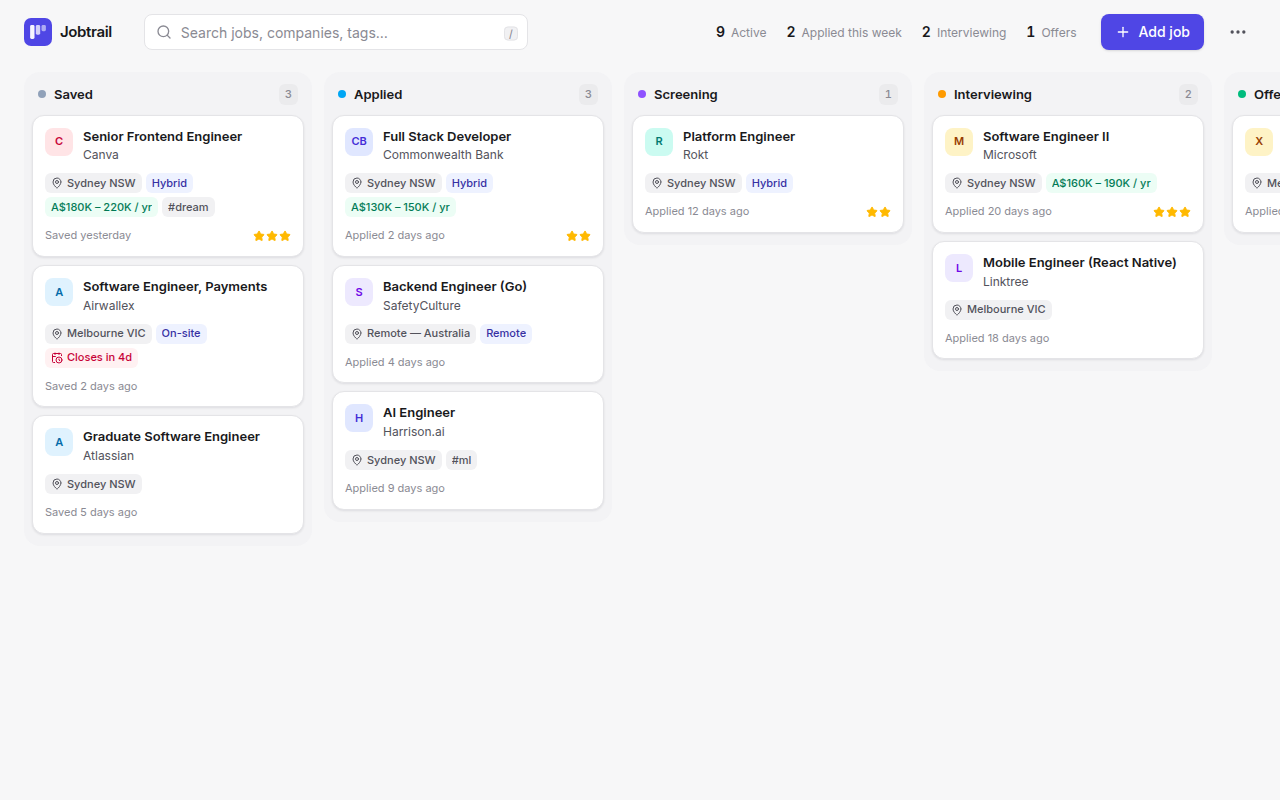
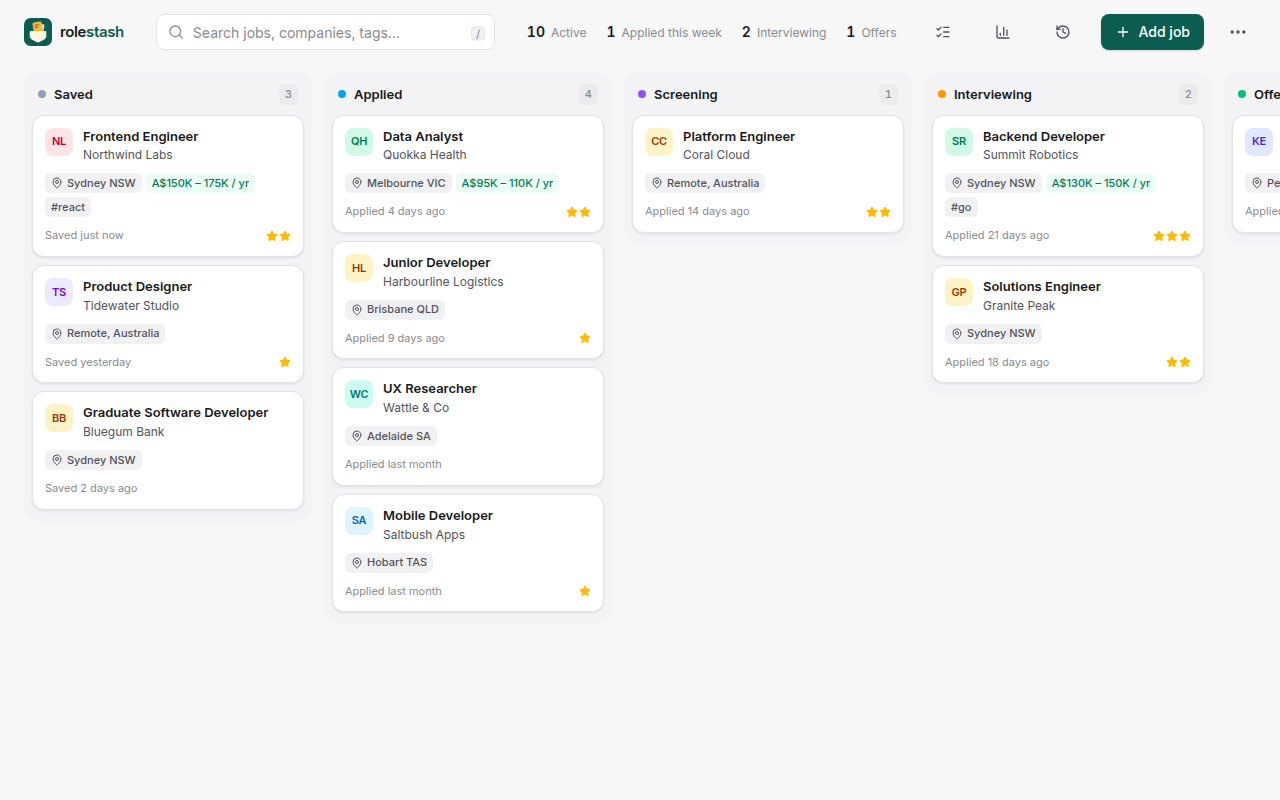
feat: launch prep — current permissions, accounts mode, new listing, privacy and screenshots
- Policy: alarms, sidePanel, optional notifications and the optional
  per-site hosts used by "capture from a pasted link"; the package budget
  rises to 2 MB zipped (pdf.js for reading résumés on the device).
- Gate: optional_permissions are checked; identity and externally_connectable
  are allowed only together and only as { matches: [rolestash.com/board/*] };
  a manifest key (the development build) fails.
- Integration: the build reads WXT_SUPABASE_URL, WXT_SUPABASE_ANON_KEY and
  WXT_GOOGLE_CLIENT_ID repository variables; unset, it has no backend.
- store/listing.md rewritten for the shipped features and plans, with
  per-permission justifications and data-use disclosures; PRIVACY.md synced
  from the source; five new 1280×800 screenshots with fictional data.

diff --git a/scripts/check-package.ts b/scripts/check-package.ts
@@ -13,8 +13,11 @@ import { fileURLToPath } from 'node:url';
 
 export interface Policy {
   permissions: string[];
+  optionalPermissions: string[];
   hostPermissions: string[];
   optionalHostPermissions: string[];
+  /** Allowed only together, in builds with accounts (identity + the web board's sign-in). */
+  accounts: { permissions: string[]; externallyConnectable: string[] };
   allowContentScripts: boolean;
   maxPackageKB: number;
 }
@@ -34,9 +37,16 @@ export function checkManifest(manifest: Manifest, policy: Policy, expectVersion?
 
   if (manifest.manifest_version !== 3) errors.push(`manifest_version must be 3 (got ${String(manifest.manifest_version)})`);
 
-  const perms = sameSet(list(manifest.permissions), policy.permissions);
+  // An accounts build adds exactly the accounts permissions and externally_connectable.
+  const granted = list(manifest.permissions);
+  const accounts = policy.accounts.permissions.some((p) => granted.includes(p));
+  const expected = accounts ? [...policy.permissions, ...policy.accounts.permissions] : policy.permissions;
+  const perms = sameSet(granted, expected);
   if (perms.added.length) errors.push(`permissions not allowed by policy: ${perms.added.join(', ')}`);
   if (perms.removed.length) errors.push(`policy lists permissions the build no longer uses (tighten the policy): ${perms.removed.join(', ')}`);
+
+  const optionalPerms = sameSet(list(manifest.optional_permissions), policy.optionalPermissions);
+  if (optionalPerms.added.length) errors.push(`optional_permissions not allowed by policy: ${optionalPerms.added.join(', ')}`);
 
   const hosts = sameSet(list(manifest.host_permissions), policy.hostPermissions);
   if (hosts.added.length) errors.push(`host_permissions not allowed by policy: ${hosts.added.join(', ')}`);
@@ -48,7 +58,17 @@ export function checkManifest(manifest: Manifest, policy: Policy, expectVersion?
   if (!policy.allowContentScripts && contentScripts > 0) {
     errors.push('content_scripts are not allowed by policy (the extractor must be injected on demand)');
   }
-  if (manifest.externally_connectable !== undefined) errors.push('externally_connectable is not allowed');
+  const external = manifest.externally_connectable as Record<string, unknown> | undefined;
+  if (!accounts) {
+    if (external !== undefined) errors.push('externally_connectable is allowed only in accounts builds');
+  } else {
+    const keys = Object.keys(external ?? {});
+    const matches = sameSet(list(external?.matches), policy.accounts.externallyConnectable);
+    if (keys.join() !== 'matches' || matches.added.length || matches.removed.length) {
+      errors.push(`externally_connectable must be exactly { matches: ${JSON.stringify(policy.accounts.externallyConnectable)} }`);
+    }
+  }
+  if (manifest.key !== undefined) errors.push('manifest key is set: that is the development build, not a release');
 
   const csp = JSON.stringify(manifest.content_security_policy ?? '');
   if (/unsafe-eval|unsafe-inline|https?:\/\/|\*/.test(csp)) errors.push(`content_security_policy weakens the default: ${csp}`);
@@ -89,6 +109,8 @@ function main(args: string[]): void {
     `### Package check — v${String(manifest.version)}`,
     '',
     `- Permissions: ${list(manifest.permissions).join(', ') || 'none'}`,
+    `- Optional: ${[...list(manifest.optional_permissions), ...list(manifest.optional_host_permissions)].join(', ') || 'none'}`,
+    `- Accounts: ${list(manifest.permissions).includes('identity') ? 'on' : 'off'}`,
     `- Host permissions: ${list(manifest.host_permissions).join(', ') || 'none'}`,
     `- Unpacked size: ${sizeKB} KB`,
     errors.length ? `- ❌ ${errors.length} problem(s):\n${errors.map((e) => `  - ${e}`).join('\n')}` : '- ✅ Matches policy',

diff --git a/tests/tooling.test.ts b/tests/tooling.test.ts
@@ -11,11 +11,45 @@ const policy = JSON.parse(readFileSync(resolve(root, 'policy/manifest-policy.jso
 const good = {
   manifest_version: 3,
   version: '0.2.0',
-  permissions: ['activeTab', 'scripting', 'storage', 'unlimitedStorage', 'contextMenus'],
+  permissions: ['activeTab', 'scripting', 'storage', 'unlimitedStorage', 'contextMenus', 'alarms', 'sidePanel'],
+  optional_permissions: ['notifications'],
+  optional_host_permissions: ['https://*/*', 'http://*/*'],
+};
+const withAccounts = {
+  ...good,
+  permissions: [...good.permissions, 'identity'],
+  externally_connectable: { matches: ['https://rolestash.com/board/*'] },
 };
 
 test('a manifest matching policy passes', () => {
   assert.deepEqual(checkManifest(good, policy, '0.2.0'), []);
+});
+
+test('an accounts build passes with identity and exactly the web board', () => {
+  assert.deepEqual(checkManifest(withAccounts, policy, '0.2.0'), []);
+});
+
+test('accounts pieces never appear alone or widened', () => {
+  const noBoard = checkManifest({ ...withAccounts, externally_connectable: undefined }, policy);
+  assert.match(noBoard.join('\n'), /externally_connectable must be exactly/);
+  const wide = checkManifest(
+    { ...withAccounts, externally_connectable: { matches: ['https://rolestash.com/*'] } },
+    policy,
+  );
+  assert.match(wide.join('\n'), /externally_connectable must be exactly/);
+  const ids = checkManifest(
+    { ...withAccounts, externally_connectable: { matches: ['https://rolestash.com/board/*'], ids: ['*'] } },
+    policy,
+  );
+  assert.match(ids.join('\n'), /externally_connectable must be exactly/);
+  const boardOnly = checkManifest({ ...good, externally_connectable: withAccounts.externally_connectable }, policy);
+  assert.match(boardOnly.join('\n'), /only in accounts builds/);
+});
+
+test('the development key and new optional permissions fail', () => {
+  assert.match(checkManifest({ ...good, key: 'MIIB' }, policy).join('\n'), /development build/);
+  const tabs = checkManifest({ ...good, optional_permissions: ['notifications', 'tabs'] }, policy);
+  assert.match(tabs.join('\n'), /optional_permissions not allowed by policy: tabs/);
 });
 
 test('permission creep fails the gate', () => {

diff --git a/store/listing.md b/store/listing.md
@@ -9,47 +9,103 @@ Rolestash — Job Application Tracker
 
 ## Summary (≤132 characters)
 
-Save any job posting to a private Kanban board in one click. No AI, no accounts, no servers — your data stays in your browser.
+Save any job posting to a Kanban board in one click. Autofill applications, track every reply. Local-first, no AI.
 
 ## Category
 
 Productivity → Workflow & Planning
 
+## Language
+
+English
+
 ## Description
 
 Rolestash turns job postings into cards on a Kanban board, so you always know where every application stands.
 
-• One click to capture: open a job on LinkedIn, SEEK, Indeed, Glassdoor, Greenhouse, Lever, Workday or almost any careers page, click the Rolestash icon, check the details, save.
-• Title, company, location, salary, closing date and the full description are filled in for you. Uncertain fields are flagged so you can fix them before saving.
+CAPTURE IN ONE CLICK
+• Open a job on LinkedIn, SEEK, Indeed, Glassdoor, Workday, Greenhouse, Lever or almost any careers page, then click the Rolestash icon (or press Alt+J).
+• Title, company, location, salary, closing date and the full description are filled in for you. Anything uncertain is flagged so you can check it before saving.
+• The same job found on two sites stays one card.
+
+A BOARD YOU'LL ACTUALLY USE
 • Drag cards through Saved → Applied → Screening → Interviewing → Offer.
 • Notes, tags, priorities, closing-date warnings and a timeline of every move.
-• Duplicate detection, so the same job found on two sites stays one card.
-• Export and import backups. Light and dark themes. Keyboard shortcuts (Alt+J, Alt+Shift+J, / to search, N to add).
+• Side panel: keep Rolestash open beside any page.
+• Export to CSV or a JSON backup at any time, on every plan.
 
-Private by design: Rolestash has no servers, no accounts, no analytics and no AI. It reads a page only when you click it, and everything is stored locally in your browser.
+PRO: US$7/month or US$59/year, with a 30-day free trial and no card needed
+• Up to 60 active jobs (Free: 15).
+• Application autofill: fill Greenhouse, Lever, Ashby and most careers forms from your profile, which you can start from your résumé (PDF or Word). It never answers demographic questions and never submits for you.
+• Insights: applications per week, how far applications get, reply rates, the sites that work best for you, and a chart of where your applications end up.
+• Contacts, interview rounds and documents per job, and a calendar export.
+• Bulk actions, follow-up reminders, closing-date alerts, custom columns, capture from a pasted link and your full history.
+• Sync across up to 3 computers.
+
+ADVANCED: US$15/month or US$159/year
+• Unlimited active jobs.
+• Automatic status updates: forward job emails to your private address and the board moves the card ("we'd like to interview you", "unfortunately…"), with interview times and join links on the card. Plain rules, no AI, no access to your mailbox.
+• Sync across up to 5 devices, including your phone through the web board.
+• Your whole board in the side panel.
+
+PRIVATE BY DESIGN
+• No AI services read your applications. Capture and email updates use plain rules.
+• Rolestash reads a page only when you click it. It doesn't track the sites you visit.
+• The free plan needs no account, and everything stays in your browser. Accounts and sync are optional.
+• No ads, no analytics, no data selling.
+
+Payments are handled by Paddle.com, our merchant of record. Privacy policy: https://rolestash.com/privacy/
 
 ## Single purpose
 
-Save job postings from web pages to a personal job-application Kanban board.
+Save job postings from web pages to a personal job-application tracker, and keep that tracker up to date: filling applications from the user's own details and recording replies the user forwards.
 
 ## Permission justifications
 
 | Permission         | Justification |
 | ------------------ | ------------- |
-| `activeTab`        | Reads the job posting in the current tab, only when the user clicks the toolbar button, uses the context menu item or presses the shortcut. |
-| `scripting`        | Injects the bundled extraction script into that tab to read the job details. No remote code. |
-| `storage`          | Saves the user's jobs and settings locally. |
+| `activeTab`        | Reads the job posting in the current tab, and fills an application form there, only after the user clicks the toolbar button, a context-menu item or the side panel, or presses the shortcut. |
+| `scripting`        | Injects the bundled extraction script (to read the job) or the bundled autofill script (to fill the form) into that one tab, on that click. No remote code. |
+| `storage`          | Saves the user's jobs, settings and autofill profile locally. |
 | `unlimitedStorage` | Job description snapshots can exceed the default 10 MB quota over time. |
-| `contextMenus`     | Adds "Track this job in Rolestash" to the page right-click menu and "Open Rolestash board" to the toolbar button menu. |
+| `contextMenus`     | "Track this job" and "Fill this application" on the page, and "Open side panel" and "Open board" on the toolbar button. |
+| `alarms`           | Checks every 15 minutes for follow-up reminders and closing dates the user set, while the board is closed. |
+| `sidePanel`        | Shows Rolestash docked beside the page when the user opens it. The panel has no access to page content. |
+| `identity`         | Optional account sign-in with Google through `chrome.identity.launchWebAuthFlow`. Accounts are optional and used for paid plans and sync. |
+| `notifications` (optional) | Asked for only when the user turns on follow-up reminders or closing-date alerts, to show them. |
+| `https://*/*`, `http://*/*` (optional host permissions) | "Capture from a pasted link": when the user pastes a job link, Rolestash asks for access to **that one site** in the same click, reads that page, and removes the access straight afterwards. |
 
-Host permissions: none. Remote code: none.
+`externally_connectable`: only `https://rolestash.com/board/*`, our own web board, may message the extension, to sign the web board in with the same account. No other site can.
 
-## Data usage disclosures
+Host permissions granted at install: none. Content scripts: none. Remote code: none. Every script, including the PDF reader used to read a résumé on the device, is bundled in the package.
 
-- Collects: website content (job postings the user chooses to save), stored locally only.
-- Not sold, not transferred to third parties, not used for purposes unrelated to the single purpose, not used for creditworthiness or lending.
-- Privacy policy: https://rolestash.com/privacy
+## Data usage disclosures (dashboard → Privacy)
+
+Collected (only when the user creates an optional account):
+
+- **Personally identifiable information:** email address, and optionally a display name and profile photo.
+- **Authentication information:** sign-in session tokens. No passwords.
+- **Website content:** the job postings the user saves, when they turn on sync.
+- **Personal communications:** emails the user chooses to forward for automatic status updates (Advanced). They're read in memory, and only the extracted update is kept, for at most 90 days.
+
+Not collected: health, financial or payment information (Paddle handles payments), location, web history, user activity.
+
+Certify:
+
+- not sold to third parties;
+- not used or transferred for purposes unrelated to the single purpose;
+- not used to determine creditworthiness or for lending.
+
+Privacy policy URL: https://rolestash.com/privacy/
 
 ## Screenshots
 
-`store/screenshots/*.png` (1280×800), in order: board, job details, dark mode.
+`store/screenshots/*.png` (1280×800), in order:
+
+1. Board: Kanban columns with fictional jobs.
+2. Job details: the drawer with an interview round and a contact.
+3. Insights: where applications end up.
+4. Side panel beside a fictional careers page.
+5. Autofill profile, started from a résumé.
+
+Regenerate with `npm run store:screenshots` in the source repo. It writes `.output/store-screenshots/`; copy those files here.

diff --git a/PRIVACY.md b/PRIVACY.md
@@ -1,17 +1,68 @@
 # Privacy
 
-Rolestash collects nothing.
+Rolestash is local-first. On the free plan it keeps everything in your
+browser and sends nothing to us. Accounts, sync and email updates are
+optional (Pro and Advanced) and store only what they need. No ads, no
+analytics, no crash reporting, no data selling, and no AI services.
 
-- **What is read:** the content of a tab, only when you click the Rolestash icon,
-  use its context-menu item or its keyboard shortcut on that tab.
-- **What is stored:** the job details you save (title, company, location,
-  salary, dates, description text, the posting URL) plus your own notes, tags
-  and board state. Stored in your browser's extension storage
-  (`chrome.storage.local`) on this device only.
-- **What is sent anywhere:** nothing. The extension makes no network requests,
-  has no server, no analytics and no crash reporting. Data leaves your browser
-  only when you export a backup file yourself.
-- **Deleting your data:** delete jobs on the board, or remove the extension
-  (which deletes its storage).
+Full policy: https://rolestash.com/privacy/
+
+## What the extension reads
+
+- **The page you choose:** the content of a tab, only when you click the
+  Rolestash icon, use its right-click menu item or press its keyboard
+  shortcut on that tab. It does not track the sites you visit, and the side
+  panel has no access to pages.
+- **Pasted links (Pro):** when you paste a job link into _Add job_, Rolestash
+  asks for access to that one site, then fetches that one page without your
+  cookies. If the page needs JavaScript, it briefly opens the page in a
+  background tab instead. Access to the site is removed straight afterwards.
+
+## What is stored on your device
+
+- The job details you save (title, company, location, salary, dates,
+  description text, the posting link), your notes, tags, contacts, interview
+  rounds, document names and board settings, in the browser's extension
+  storage (`chrome.storage.local`).
+- **Autofill profile (Advanced):** the details you save for filling
+  applications stay on this device only. They are not synced, not in backups
+  and never sent to us. They go only into the application page you choose,
+  when you click "Fill this application". Autofill never answers demographic
+  questions and never submits a form. "Fill from résumé" reads your PDF or
+  Word file in the browser to pre-fill the profile; the file is never stored
+  or sent.
+
+## What is sent to us, and only if you create an account
+
+- **Account:** your email address (and Google account ID if you sign in with
+  Google), your plan and subscription status from Paddle, our merchant of
+  record, and a display name and small profile photo if you add them. We
+  never see card details.
+- **Sync (Pro and Advanced):** a copy of your board and a name for each
+  synced device, stored in our database in Sydney, Australia, so your devices
+  stay in step. Deleting your account deletes it.
+- **Automatic status updates (Advanced):** you get a private forwarding
+  address and choose which emails to forward. Rolestash never connects to
+  your mailbox. Each forwarded email is read in memory with plain rules; we
+  keep only the extracted update (such as "interview on 3 Oct", the subject,
+  sender and the links it mentions), never the email body, until your board
+  fetches it, and 90 days at most.
+- **Shared learning (Advanced, can be turned off):** when you accept or
+  correct an update, your board shares a one-way fingerprint of the email's
+  template (with names, companies, numbers, dates and links removed) and
+  which company an email domain belongs to, under a one-way code instead of
+  your account. Never email text, subjects or which jobs you applied to.
+  Untick "Help improve automatic updates" when you create your account, or
+  turn it off in Account later, which also withdraws what you shared.
+
+Network: the extension talks only to the page you capture and our Supabase
+project. Checkout, billing and Google sign-in open as pages on rolestash.com,
+Paddle and Google that you see. Nothing else.
+
+## Deleting your data
+
+Delete jobs on the board, export a backup at any time, delete your account
+from Account (we delete its data within 30 days), or remove the extension,
+which deletes its local storage.
 
 This file doubles as the Chrome Web Store privacy disclosure.

diff --git a/README.md b/README.md
@@ -26,7 +26,7 @@ and [ADR-0008](https://github.com/SHINO-01/rolestash/blob/dev/docs/adr/0008-two-
 | Path                              | What                                                                  |
 | --------------------------------- | --------------------------------------------------------------------- |
 | `source/`                         | Submodule → SHINO-01/rolestash at the released tag                     |
-| `policy/manifest-policy.json`     | Permissions the shipped manifest must match **exactly**               |
+| `policy/manifest-policy.json`     | Permissions the shipped manifest must match **exactly** (plus the accounts-only pair) |
 | `store/`                          | Store listing text, permission justifications, screenshots (1280×800) |
 | `CHANGELOG.md`                    | One entry per release, generated from the source release notes       |
 | `scripts/check-package.ts`        | The manifest policy gate                                              |
@@ -62,6 +62,16 @@ _Chrome Web Store_, review and approve it.
    the protected environment, and the extension ID becomes the
    `CWS_EXTENSION_ID` variable. From then on, _Release_ uploads and submits each
    new version after you approve it.
+5. **Turn accounts on (launch).** Set three repository _variables_. They're
+   public values and they aren't secrets:
+   - `WXT_SUPABASE_URL`;
+   - `WXT_SUPABASE_ANON_KEY` (the publishable key);
+   - `WXT_GOOGLE_CLIENT_ID`.
+
+   While they're unset, the release build has no backend, as before launch.
+   Once they're set, the build adds `identity` and `externally_connectable`
+   (`rolestash.com/board/*` only). The policy gate allows those two only
+   together, and the smoke tests check accounts mode.
 
 ## Changing what ships
 
